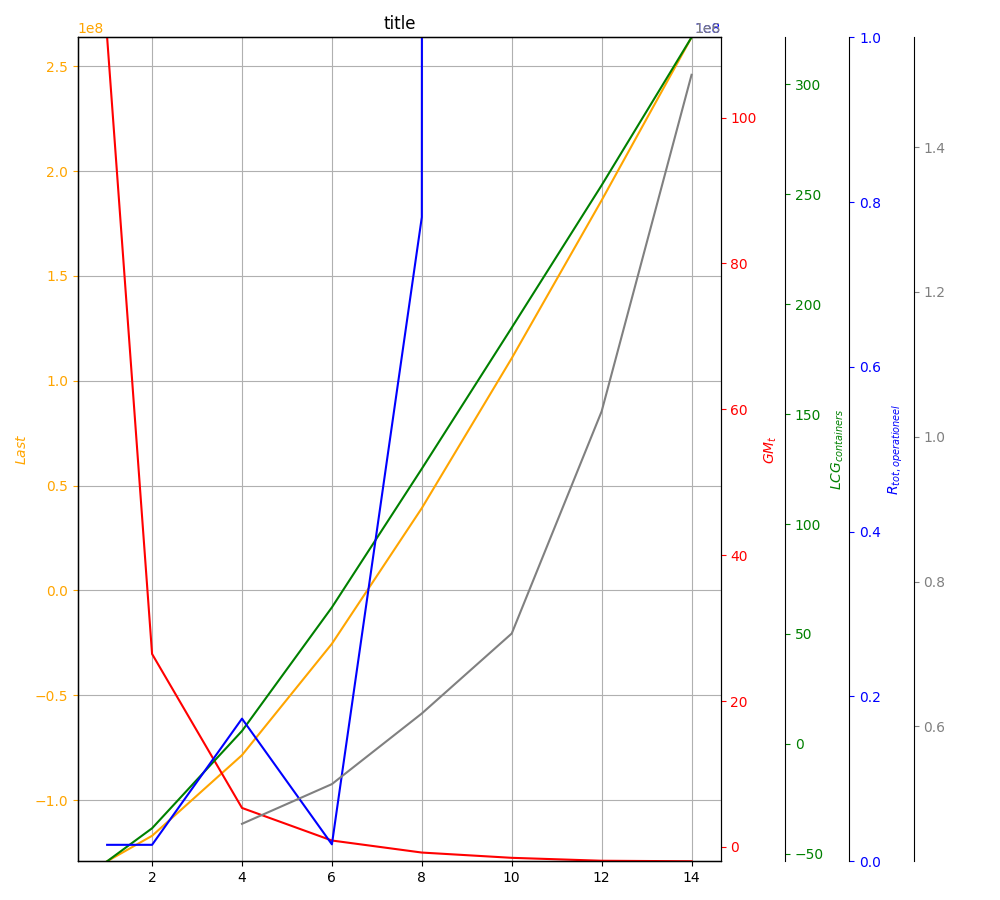
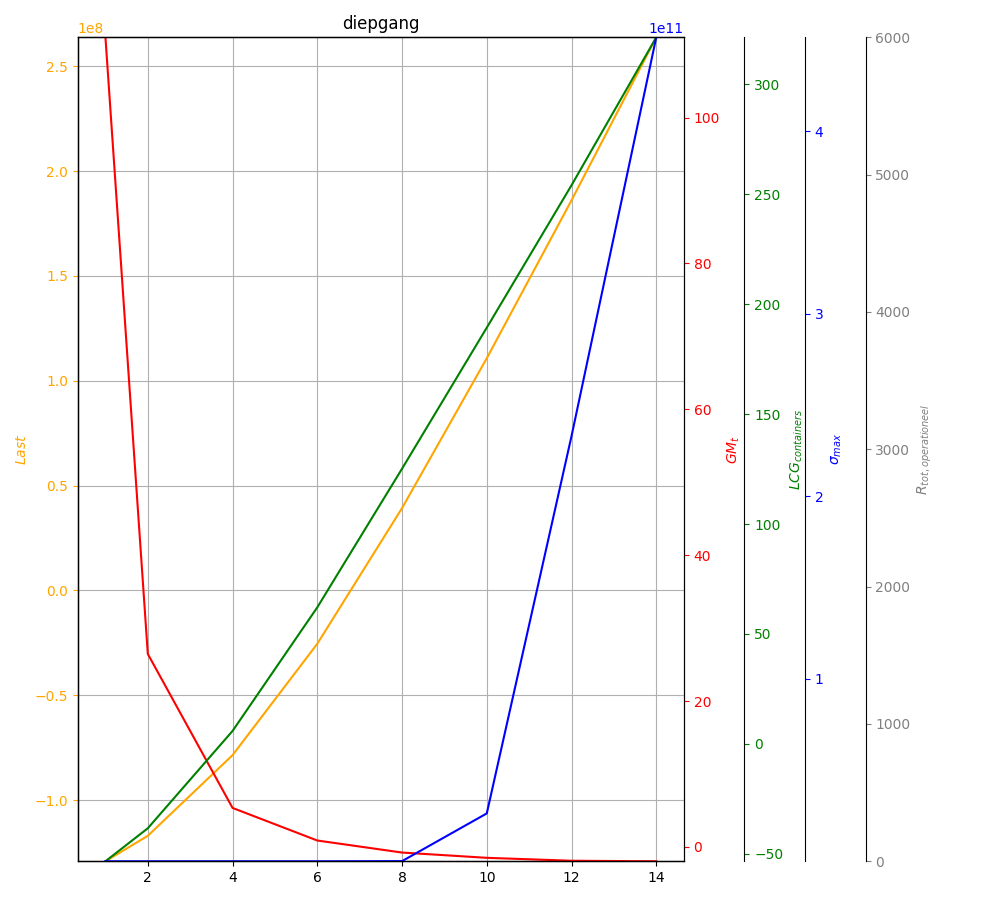
zo

diff --git a/Trendlijnen.py b/Trendlijnen.py
@@ -317,15 +317,16 @@ def trendplotinelkaar(filepath,title):
     twin2.set(ylabel=datalabel[2],ylim=(min(data[:,2]),max(data[:,2])))
     twin3.set(ylabel=datalabel[3],ylim=(min(data[:,3]),max(data[:,3])))
     try:
-        twin3.set(ylabel=datalabel[4],ylim=(min(data[:,4]),max(data[:,4])))
+        twin4.set(ylabel=datalabel[4],ylim=(min(data[:,4]),max(data[:,4])))
     except ValueError:
-        twin3.set(ylabel=datalabel[4],ylim=(0,10E7))
+        twin4.set(ylabel=datalabel[4],ylim=(0,6000))
 
     ax.yaxis.label.set_color(p1.get_color())
     twin1.yaxis.label.set_color(p2.get_color())
     twin2.yaxis.label.set_color(p3.get_color())
     twin3.yaxis.label.set_color(p4.get_color())
     twin4.yaxis.label.set_color(p5.get_color())
+
     ax.tick_params(axis='y', colors=p1.get_color())
     twin1.tick_params(axis='y', colors=p2.get_color())
     twin2.tick_params(axis='y', colors=p3.get_color())
@@ -334,7 +335,7 @@ def trendplotinelkaar(filepath,title):
 
 #    ax.legend(handles=[p1, p2, p3,p4])
     ax.grid()
-    ax.set_title("title")
+    ax.set_title(title)
     plt.tight_layout()
     plt.savefig(r".\variatie onderzoek\ "+title+".png")
 
